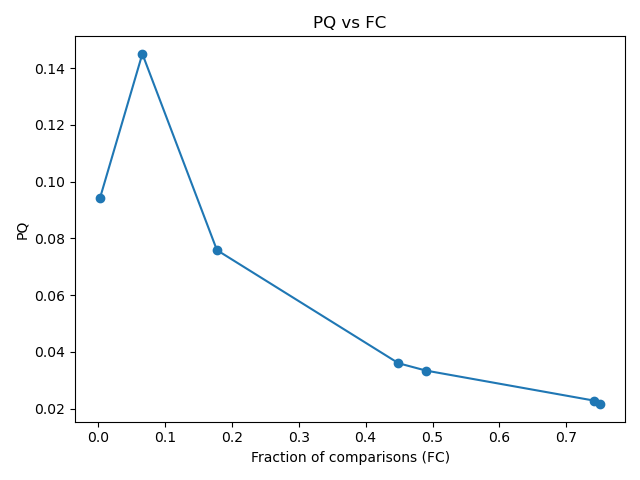
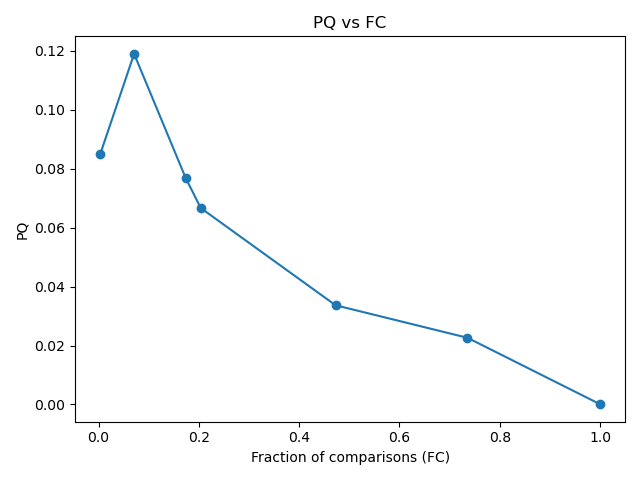
final state 11.12

diff --git a/src/main.py b/src/main.py
@@ -31,7 +31,6 @@ def run_single_bootstrap(raw_data,
     data_test = datasets["data_test"]
     brand_blocks_train = datasets["brand_blocks_train"]
     brand_blocks_test = datasets["brand_blocks_test"]
-    known_brands = datasets["known_brands"]
 
     print(f"[Bootstrap seed={seed}] Data cleaned and split.")
     print("  Train clusters:", len(data_train))
@@ -41,7 +40,7 @@ def run_single_bootstrap(raw_data,
     brand_signatures_train, small_brand_offers_train, _ = build_minhash_for_brands(
         brand_blocks_train, num_perm=num_perm, seed=seed
     )
-    print("[Bootstrap] Minhash on TRAIN done.")
+    print(f"[Bootstrap seed={seed}] Minhash on TRAIN done.")
 
     best_lsh_params, best_lsh_metrics = tune_lsh_parameters(
         brand_signatures=brand_signatures_train,
@@ -50,7 +49,7 @@ def run_single_bootstrap(raw_data,
         min_PC=lsh_min_PC,
     )
     b, r = best_lsh_params
-    print(f"[Bootstrap] Best LSH params: b={b}, r={r}")
+    print(f"[Bootstrap {seed}] Best LSH params: b={b}, r={r}")
     print(f"  LSH PC (recall) = {best_lsh_metrics['PC']}")
     print(f"  LSH PQ (precision) = {best_lsh_metrics['PQ']}")
     print(f"  LSH FC (fraction comparisons) = {best_lsh_metrics['FC']}")
@@ -86,8 +85,8 @@ def run_single_bootstrap(raw_data,
     seed=seed
 )
 
-    print(f"[Bootstrap] Best MSM params: {best_msm_params}")
-    print(f"[Bootstrap] Train F1: {best_msm_metrics['F1']}")
+    print(f"[Bootstrap {seed}] Best MSM params: {best_msm_params}")
+    print(f"[Bootstrap {seed}] Train F1: {best_msm_metrics['F1']}")
 
     # --- Run LSH + MSM on TEST with tuned params ---
     brand_signatures_test, small_brand_offers_test, _ = build_minhash_for_brands(
@@ -119,7 +118,7 @@ def run_single_bootstrap(raw_data,
         allowed_cluster_ids=test_clusters,
     )
 
-    print("[Bootstrap] TEST metrics:")
+    print(f"[Bootstrap {seed}] TEST metrics:")
     for k, v in test_metrics.items():
         print(f"  {k}: {v}")
 
@@ -230,23 +229,29 @@ def main(args):
         labels=False,      
     )
 
-    # ---- aggregate per bin ----
     agg = (
         curve_df
         .groupby("FC_bin")
         .agg(
-            FC=("FC", "mean"),     
+            FC=("FC", "mean"),
             F1=("F1", "mean"),
             PQ=("PQ", "mean"),
             PC=("PC", "mean"),
             F1_star=("F1*", "mean"),
-            count=("FC", "size"),  # how many points in the bin
-        )   
+            count=("FC", "size")
+        )
         .reset_index(drop=True)
     )
 
+    
+    # ---- aggregate per bin ----
+    agg = agg.sort_values("FC").reset_index(drop=True)
+    window = 3  # or 5, tuned by eye
+
+    for col in ["F1", "PQ", "PC", "F1_star"]:
+        agg[col + "_smooth"] = agg[col].rolling(window=window, min_periods=1, center=True).median()
     # optional: drop bins with very few points (to reduce noise)
-    min_points_per_bin = 2
+    min_points_per_bin = 0
     agg = agg[agg["count"] >= min_points_per_bin]
 
     # make sure rows are sorted by FC
@@ -272,7 +277,7 @@ def main(args):
 
 
     # note: use the column name "F1_star" here, not "F1*"
-    for metric in ["F1", "PQ", "PC", "F1_star"]:
+    for metric in ["F1_smooth", "F1", "PQ", "PC", "F1_star"]:
         plot_metric_vs_FC(agg, metric)
 
 if __name__ == "__main__":

diff --git a/src/evaluation/curves.py b/src/evaluation/curves.py
@@ -25,10 +25,6 @@ def eval_full_model_for_lsh_configs(
 
     rows: List[Dict[str, Any]] = []
 
-    # vary k_eff between num_perm - max_delta and num_perm + max_delta,
-    # but LSH only uses as many rows as we actually give it in signatures.
-    # For k_eff < num_perm we just slice the first k_eff rows.
-    # (For k_eff > num_perm we skip, because we don't have that many rows.)
     k_candidates = range(num_perm - max_delta, num_perm + 1)
 
     for k_eff in k_candidates:
@@ -123,4 +119,62 @@ def eval_full_model_for_lsh_configs(
                 }
             )
 
+    # append a row to rows with the results for the msm run with all possible pairups within each brand in the test set (FC=1)
+    # Build full candidate set: all pairs within each brand
+    full_brand_candidates: Dict[str, List[Tuple[str, str]]] = {}
+
+    # "Big" brands (those with signatures)
+    for brand, (offer_ids, _) in brand_signatures_test.items():
+        n = len(offer_ids)
+        if n < 2:
+            continue
+        pairs = []
+        for i in range(n):
+            for j in range(i + 1, n):
+                pairs.append((offer_ids[i], offer_ids[j]))
+        full_brand_candidates[brand] = pairs
+
+    # "Small" brands
+    for brand, items in small_brand_offers_test.items():
+        offer_ids = [oid for oid, _ in items]
+        n = len(offer_ids)
+        if n < 2:
+            continue
+        pairs = []
+        for i in range(n):
+            for j in range(i + 1, n):
+                pairs.append((offer_ids[i], offer_ids[j]))
+        if brand in full_brand_candidates:
+            full_brand_candidates[brand].extend(pairs)
+        else:
+            full_brand_candidates[brand] = pairs
+
+    # By construction this is all possible within-brand pairs → FC = 1.0
+    msm_metrics_full = run_msm_and_evaluate(
+        brand_candidates=full_brand_candidates,
+        data=cleaned_data,
+        gamma=msm_params["gamma"],
+        epsilon=msm_params["epsilon"],
+        mu=msm_params["mu"],
+        alpha=msm_params["alpha"],
+        beta=msm_params["beta"],
+        delta=msm_params["delta"],
+        eta=msm_params["eta"],
+        allowed_cluster_ids=test_clusters,
+    )
+
+    rows.append(
+        {
+            "k_eff": None,   # no LSH here
+            "b": None,
+            "r": None,
+            "FC": 1.0,
+            # LSH metrics are not really defined when you don't use LSH;
+            # you can keep them as NaN and only use F1 for the FC=1 point.
+            "PQ": 0.0001,
+            "PC": 1.0,
+            "F1*": 0.0001,
+            "F1": msm_metrics_full["F1"],
+        }
+    )
     return rows

diff --git a/src/preprocessing/cleaning.py b/src/preprocessing/cleaning.py
@@ -256,8 +256,8 @@ def keep_only_features_brand_and_title(data):
             offer["featuresMap"] = features_map
             offer["brand"] = brand
     return data
-# r"\b(?=\w*[a-zA-Z])(?=\w*\d)[a-zA-Z0-9-]+\b"
-MODEL_WORD_PATTERN = re.compile(r"\b(?=\w*\d)[a-zA-Z0-9-]+\b")
+# r"\b(?=\w*\d)[a-zA-Z0-9-]+\b"
+MODEL_WORD_PATTERN = re.compile(r"\b(?=\w*[a-zA-Z])(?=\w*\d)[a-zA-Z0-9-]+\b")
 
 def extract_title_model_words(title: str):
     if not isinstance(title, str):
@@ -266,7 +266,7 @@ def extract_title_model_words(title: str):
     return set(tokens)
 
 def add_model_words_from_title(cleaned_data):
-    for cluster_id, offers in cleaned_data.items():
+    for _ , offers in cleaned_data.items():
         for offer in offers:
             title = offer.get("title", "")
             mw_set = extract_title_model_words(title)

diff --git a/src/evaluation/msm_eval.py b/src/evaluation/msm_eval.py
@@ -5,6 +5,7 @@ from optuna.samplers import TPESampler
 
 from msm.msm import msm_for_all_brands, clusters_to_pairs_by_brand
 
+#optuna.logging.set_verbosity(optuna.logging.WARNING)
 
 def get_model_id(offer_id, data):
     cid, idx = offer_id.split("#", 1)
@@ -98,7 +99,7 @@ def tune_msm_params(
     data,
     train_cluster_ids=None,
     n_trials=30,
-    timeout=None,
+    timeout=3600,
     gamma_range=(0.2, 0.8),
     epsilon_range=(0.1, 0.5),
     mu_range=(0.3, 0.9),
@@ -106,7 +107,7 @@ def tune_msm_params(
     beta_range=(0.0,0.2),
     eta_range=(0.3,0.7),
     delta_range=(0.3,0.7),
-    seed: int | None = None,
+    seed: int = 123,
 ):
 
     sampler = optuna.samplers.TPESampler(seed=seed)

diff --git a/src/evaluation/lsh_eval.py b/src/evaluation/lsh_eval.py
@@ -65,7 +65,7 @@ def evaluate_lsh_global(brand_signatures, data, b, r):
 
     F1_star = 2 * PQ * PC / (PQ + PC) if (PQ + PC) else 0.0
 
-    print(f"(b,r): ({b},{r}), FC: {FC}, PC: {PC}, PQ: {PQ}")
+    #print(f"(b,r): ({b},{r}), FC: {FC}, PC: {PC}, PQ: {PQ}")
     #print("total pssible / global total possible", total_possible/global_total_possible)
     return {
         "TP": total_tp,

diff --git a/src/msm/msm.py b/src/msm/msm.py
@@ -329,7 +329,7 @@ def msm_clustering_for_brand(
             p1, p2, beta=beta, delta = delta, eta=eta, gamma=gamma, mu=mu, alpha=alpha
         )
         if d > 0.4:
-            d = 100.0
+            d = 1.0
         dissimilarity.loc[oid1, oid2] = d
         dissimilarity.loc[oid2, oid1] = d
 
